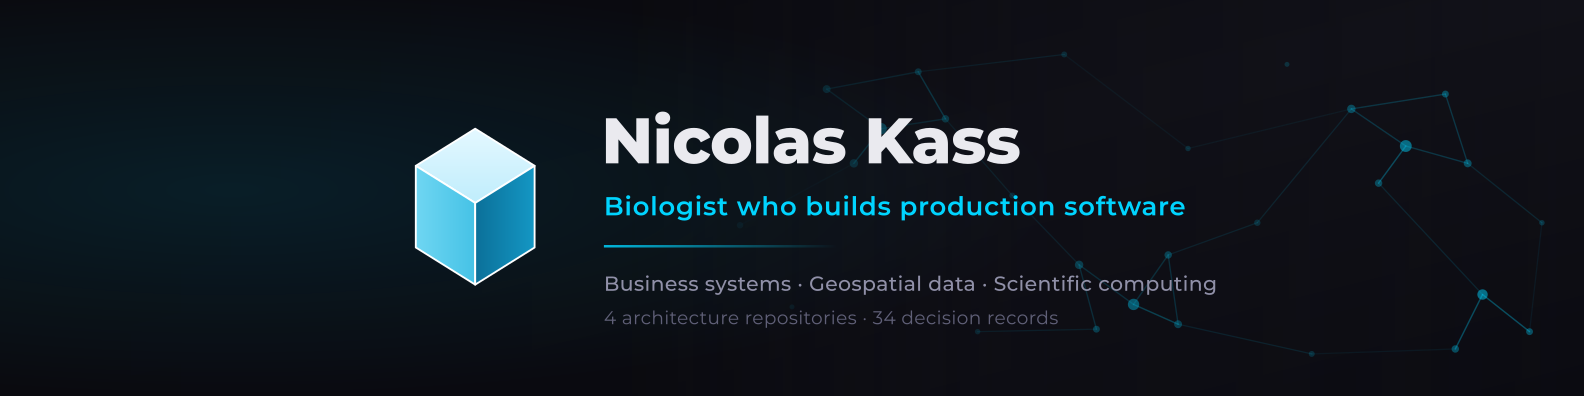
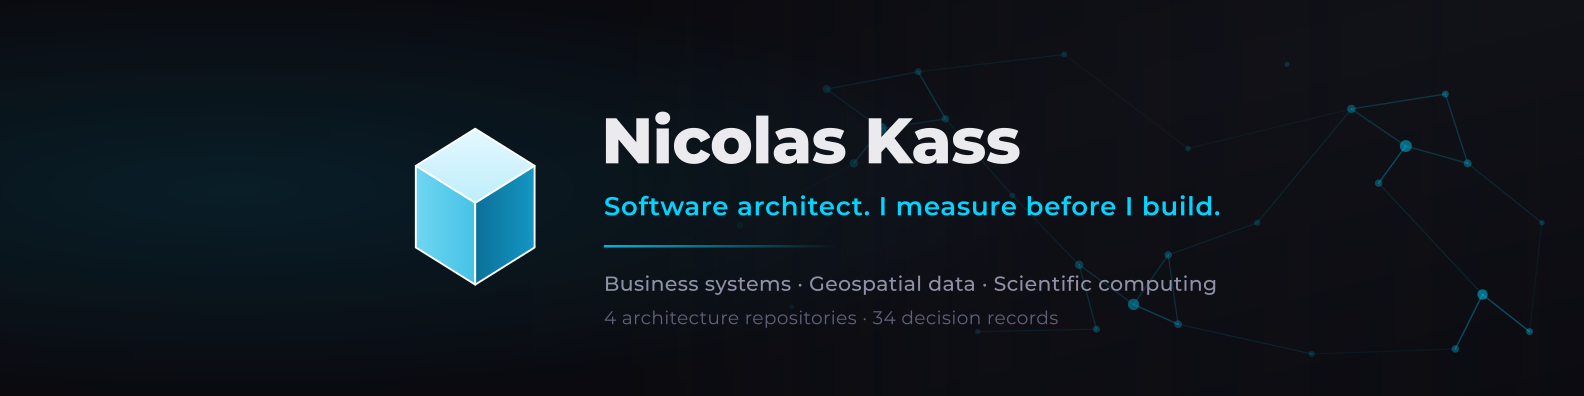
Software architect, not biologist
The tagline read "biologist who builds production software". The degree is
where the method comes from, not what the work is — and leading with it puts
the one word that makes a hiring manager stop reading first.

Now it says "Software architect. I measure before I build." The second half
is the actual differentiator and it carries the science without spending the
headline on a credential.

The line further down stays: coming to software from field biology is the
least interesting and most useful thing here, and saying so is the point.

Changed region(s): [[0.3712, 0.4848, 0.7734, 0.5455]]

diff --git a/README.md b/README.md
@@ -1,4 +1,4 @@
-![Nicolas Kass — biologist who builds production software. Business systems, geospatial data, scientific computing. Four architecture repositories, 34 decision records. La Plata, Argentina, open to remote.](assets/banner.png)
+![Nicolas Kass — software architect. Business systems, geospatial data, scientific computing. Four architecture repositories, 34 decision records. La Plata, Argentina, open to remote.](assets/banner.png)
 
 I build the operational systems small businesses actually run on — inventory, point of
 sale, invoicing, field tooling — and the data pipelines behind them. Backend, frontend,
